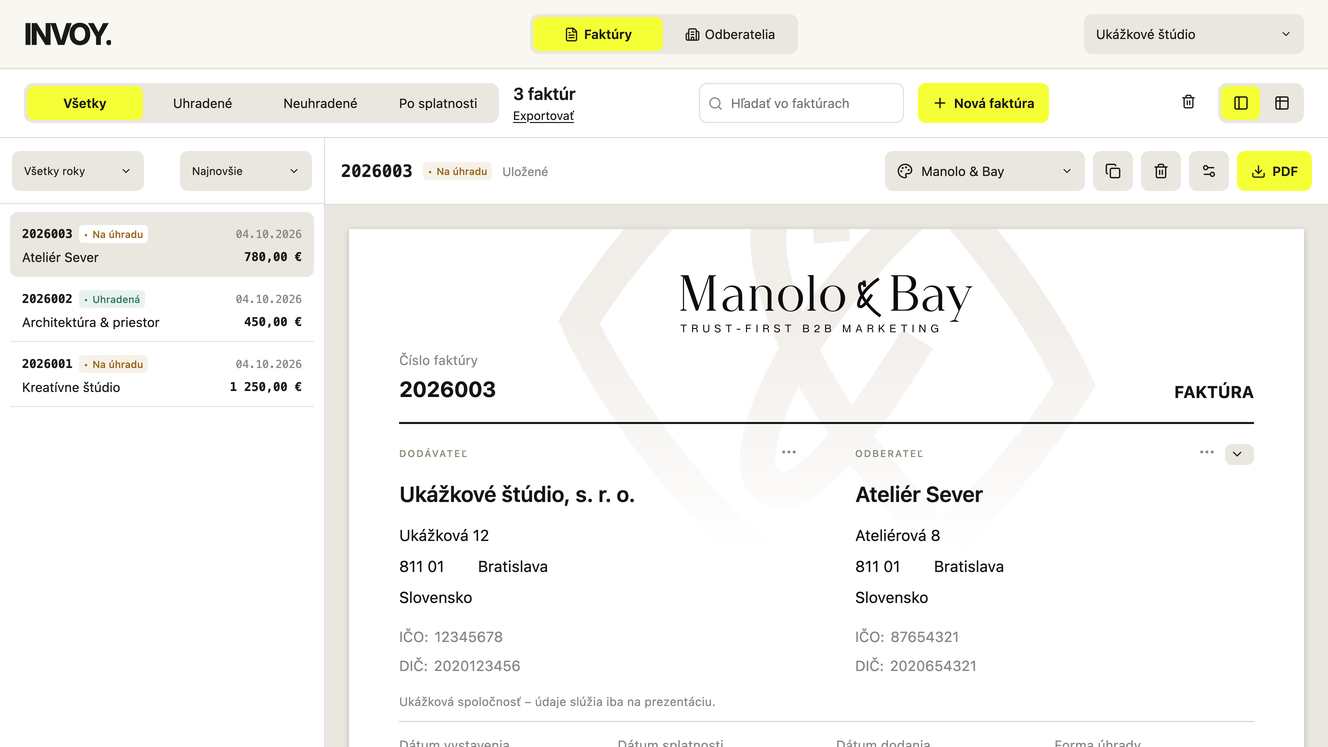
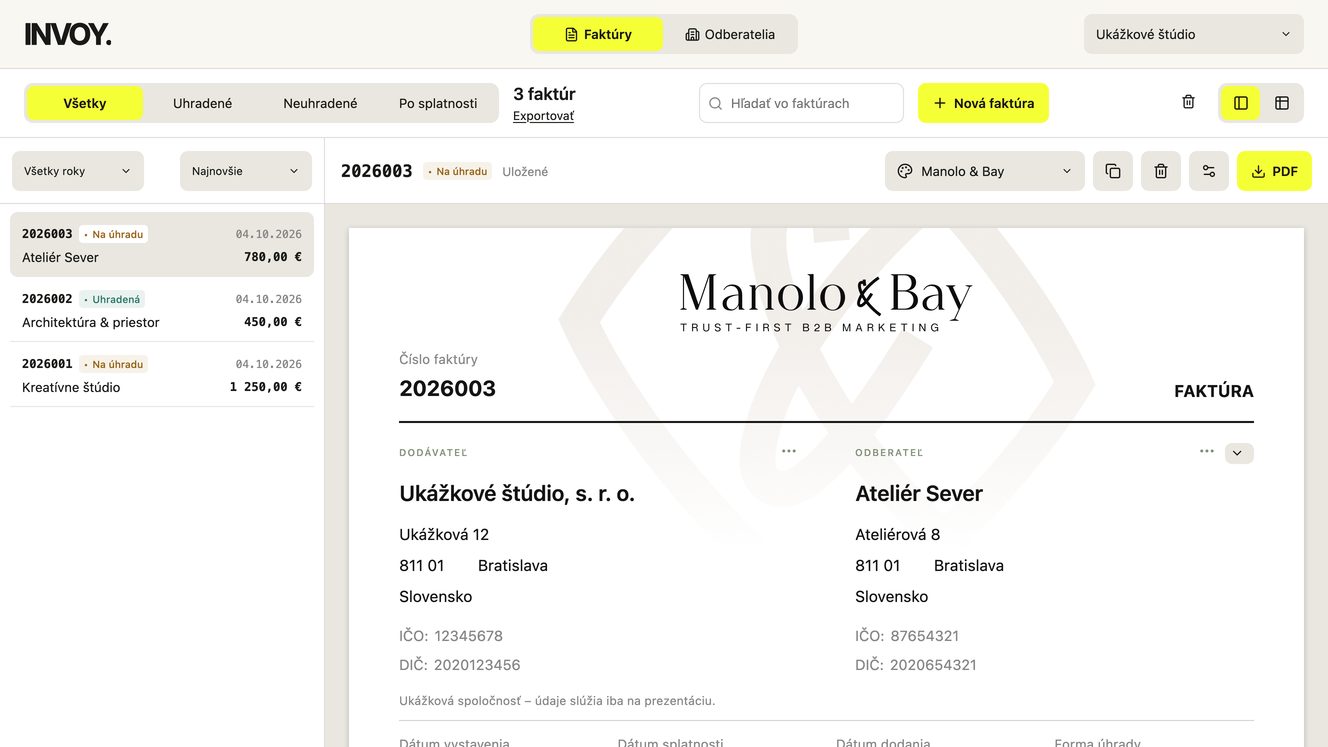
Zarovnať deliacu čiaru faktúry s bočným panelom

diff --git a/Sources/INVOY/Editors.swift b/Sources/INVOY/Editors.swift
@@ -103,7 +103,7 @@ struct InvoiceEditor: View {
                     HStack(spacing: 8) { editorHeading }
                     HStack(spacing: 8) { Spacer(minLength: 0); editorActions }
                 }
-            }.padding(.horizontal, 16).padding(.vertical, 13)
+            }.padding(.horizontal, 16).padding(.vertical, 12)
             InvoyBrand.line.frame(height: 1).accessibilityHidden(true)
             InvoicePaperCanvas(draft: draft)
             if let message = draft.message {

diff --git a/web/src/app-brand.css b/web/src/app-brand.css
@@ -530,6 +530,7 @@
 /* Responsive workspace: controls wrap before the invoice loses usable space. */
 .original-editor-toolbar {
   flex-wrap: wrap;
+  padding-bottom: 12px;
   border-bottom: 1px solid var(--invoy-brand-line);
 }
 .original-editor-toolbar .toolbar-actions {
